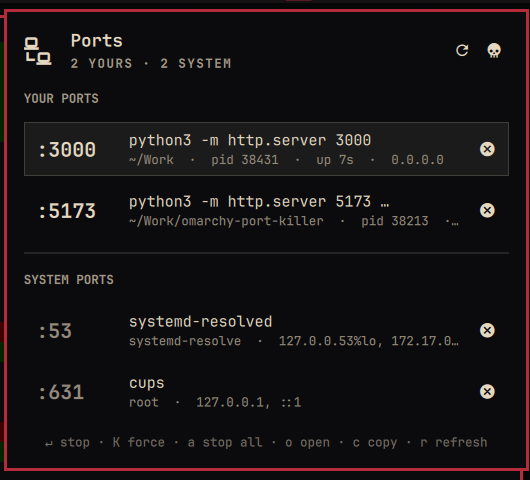
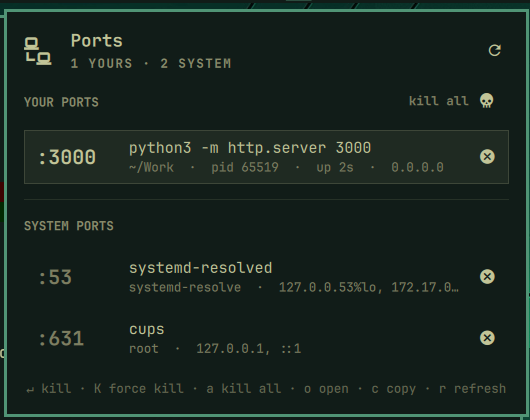
Refine kill actions and menu layout
Move kill all next to the user-owned ports it affects. Use "kill" consistently in the interface and documentation.

diff --git a/Panel.qml b/Panel.qml
@@ -104,9 +104,9 @@ Panel {
     if (!a) return ""
     if (a.all) {
       var n = ownedCount
-      return (a.force ? "Force kill " : "Stop ") + "all " + n + (n === 1 ? " process" : " processes") + " listening on your ports?"
+      return (a.force ? "Force kill " : "Kill ") + "all " + n + (n === 1 ? " process" : " processes") + " listening on your ports?"
     }
-    var verb = a.force ? "Force kill " : "Stop "
+    var verb = a.force ? "Force kill " : "Kill "
     var text = verb + Model.rowLabel(a.row) + " on " + a.row.proto.toUpperCase() + " :" + a.row.port + "?"
     if (!a.row.owned) text += "\nOwned by " + a.row.user + " — you'll be asked for your password."
     return text
@@ -162,7 +162,7 @@ Panel {
     function toggle(): void { root.toggle() }
     function refresh(): string { ports.refresh(); return "ok" }
     function list(): string { return JSON.stringify(ports.rows) }
-    // Scripting hook: stops the process on one of your own TCP ports, no dialog.
+    // Scripting hook: kills the process on one of your own TCP ports, no dialog.
     function kill(port: string): string {
       var row = ports.findOwned(port)
       if (!row) return "not found"
@@ -274,24 +274,12 @@ Panel {
               }
             }
             trailingControl: Component {
-              Row {
-                spacing: Style.space(4)
-                PanelActionButton {
-                  iconText: Model.glyph.refresh
-                  tooltipText: "Refresh  (r)"
-                  foreground: root.foreground
-                  fontFamily: root.fontFamily
-                  onClicked: ports.refresh()
-                }
-                PanelActionButton {
-                  iconText: Model.glyph.killAll
-                  tooltipText: "Stop all your ports  (a)"
-                  foreground: root.foreground
-                  hoverColor: root.urgent
-                  fontFamily: root.fontFamily
-                  enabled: root.ownedCount > 0 && !ports.busy
-                  onClicked: root.askKillAll(false)
-                }
+              PanelActionButton {
+                iconText: Model.glyph.refresh
+                tooltipText: "Refresh  (r)"
+                foreground: root.foreground
+                fontFamily: root.fontFamily
+                onClicked: ports.refresh()
               }
             }
           }
@@ -307,10 +295,56 @@ Panel {
             wrapMode: Text.WordWrap
           }
 
-          PanelSectionHeader {
-            text: "YOUR PORTS"
-            foreground: root.foreground
-            fontFamily: root.fontFamily
+          // Kill all only touches your ports, so it lives on this section's
+          // header, right-aligned with the per-row kill buttons.
+          Item {
+            width: parent.width
+            implicitHeight: Math.max(yourHeader.implicitHeight, killAllRow.visible ? killAllButton.implicitHeight : 0)
+
+            PanelSectionHeader {
+              id: yourHeader
+              anchors.left: parent.left
+              anchors.verticalCenter: parent.verticalCenter
+              text: "YOUR PORTS"
+              foreground: root.foreground
+              fontFamily: root.fontFamily
+            }
+
+            Row {
+              id: killAllRow
+              visible: root.ownedCount > 0
+              anchors.right: parent.right
+              anchors.rightMargin: Style.space(6)
+              anchors.verticalCenter: parent.verticalCenter
+              spacing: Style.space(4)
+              readonly property bool hot: killAllHover.hovered || killAllButton._hot
+
+              Text {
+                id: killAllText
+                textFormat: Text.PlainText
+                anchors.verticalCenter: parent.verticalCenter
+                text: "kill all"
+                color: killAllRow.hot && !ports.busy ? root.urgent : root.dim
+                font.family: root.fontFamily
+                font.pixelSize: Style.font.caption
+                font.bold: true
+
+                HoverHandler { id: killAllHover; cursorShape: Qt.PointingHandCursor }
+                TapHandler { enabled: !ports.busy; onTapped: root.askKillAll(false) }
+              }
+
+              PanelActionButton {
+                id: killAllButton
+                iconText: Model.glyph.killAll
+                tooltipText: "Kill all your ports  (a)"
+                foreground: root.foreground
+                hoverColor: root.urgent
+                hasCursor: killAllHover.hovered
+                fontFamily: root.fontFamily
+                enabled: !ports.busy
+                onClicked: root.askKillAll(false)
+              }
+            }
           }
 
           Text {
@@ -375,7 +409,7 @@ Panel {
           Text {
             textFormat: Text.PlainText
             width: parent.width
-            text: "↵ stop · K force · a stop all · o open · c copy · r refresh"
+            text: "↵ kill · K force kill · a kill all · o open · c copy · r refresh"
             color: root.dim
             opacity: 0.8
             font.family: root.fontFamily
@@ -392,7 +426,7 @@ Panel {
         z: 10
         opened: root.confirmOpen
         message: root.confirmMessage()
-        confirmText: root.confirmAction && root.confirmAction.force ? "Kill" : "Stop"
+        confirmText: root.confirmAction && root.confirmAction.force ? "Force kill" : "Kill"
         fontFamily: root.fontFamily
         onCanceled: root.cancelConfirm()
         onConfirmed: root.confirm()
@@ -468,7 +502,7 @@ Panel {
 
       PanelActionButton {
         iconText: Model.glyph.kill
-        tooltipText: portRow.row && portRow.row.owned ? "Stop  (↵)" : "Stop as root  (↵)"
+        tooltipText: portRow.row && portRow.row.owned ? "Kill  (↵)" : "Kill as root  (↵)"
         foreground: root.foreground
         hoverColor: root.urgent
         fontFamily: root.fontFamily

diff --git a/Service.qml b/Service.qml
@@ -92,7 +92,8 @@ Item {
     var sig = force ? "KILL" : "TERM"
     var command = ["bash", killScript, "port", row.proto, String(row.port), sig]
     if (!row.owned) command = ["pkexec"].concat(command)
-    run(command, (force ? "Force killing " : "Stopping ") + Model.rowLabel(row) + " on :" + row.port + "…")
+    var target = Model.rowLabel(row) + " on :" + row.port
+    run(command, (force ? "Force killing " : "Killing ") + target + "…", (force ? "Force killed " : "Killed ") + target)
   }
 
   function killAllOwned(force) {
@@ -104,14 +105,15 @@ Item {
         if (pids.indexOf(pid) === -1) pids.push(pid)
       }
     }
+    var target = pids.length + (pids.length === 1 ? " process" : " processes")
     run(["bash", killScript, "pids", force ? "KILL" : "TERM"].concat(pids),
-      "Stopping " + pids.length + (pids.length === 1 ? " process…" : " processes…"))
+      (force ? "Force killing " : "Killing ") + target + "…", (force ? "Force killed " : "Killed ") + target)
   }
 
-  function run(command, label) {
+  function run(command, label, doneLabel) {
     _killOutput = ""
     _killError = ""
-    _pendingLabel = label
+    _pendingLabel = doneLabel
     actionStatus = label
     lastError = ""
     killProcess.command = command
@@ -160,7 +162,7 @@ Item {
     onExited: function(exitCode) {
       var stderr = String(killStderr.text || root._killError || "")
       if (exitCode === 0) {
-        root.actionStatus = root._pendingLabel.replace(/^Stopping /, "Stopped ").replace(/^Force killing /, "Killed ").replace(/…$/, "")
+        root.actionStatus = root._pendingLabel
         actionStatusTimer.restart()
       } else {
         root.actionStatus = ""

diff --git a/README.md b/README.md
@@ -1,7 +1,7 @@
 # Port Killer for Omarchy
 
 A bar widget for the [Omarchy](https://omarchy.org) shell that shows what's
-listening on which port, and lets you stop it without leaving the desktop.
+listening on which port, and lets you kill it without leaving the desktop.
 It's for the dev server that didn't shut down properly and is still holding
 `:3000`.
 
@@ -10,11 +10,11 @@ It's for the dev server that didn't shut down properly and is still holding
 - The bar icon shows how many of **your** processes hold a listening port.
 - For each port, the panel shows the command, the **project directory** it
   was started from, the pid, uptime, and bind addresses.
-- **Stop** sends SIGTERM and escalates to SIGKILL if the process hasn't exited
-  after 3 s. **Force** sends SIGKILL right away. **Stop all** clears every port
+- **Kill** sends SIGTERM and escalates to SIGKILL if the process hasn't exited
+  after 3 s. **Force kill** sends SIGKILL right away. **Kill all** clears every port
   you own.
 - **System ports** (owned by root or service users) are labelled with their
-  systemd unit. Stopping one asks for your password through Omarchy's polkit
+  systemd unit. Killing one asks for your password through Omarchy's polkit
   dialog.
 - You can filter which ports are shown and hide processes by name.
   Everything is keyboard-driven like the built-in Omarchy panels.
@@ -43,19 +43,19 @@ URLs. All three ship with Omarchy.
 |---|---|
 | Bar: left click | open the panel |
 | Bar: right click | refresh |
-| Bar: middle click | stop all your ports (asks first) |
+| Bar: middle click | kill all your ports (asks first) |
 | Row: click | open `http://localhost:<port>` |
 | Row: middle click | copy the URL |
-| Row: close button | stop the process (asks first) |
+| Row: kill button | kill the process (asks first) |
 
 Keys while the panel is open:
 
 | Key | Action |
 |---|---|
 | `j` / `k` / arrows | move |
-| `Enter` / `x` | stop the selected process |
+| `Enter` / `x` | kill the selected process |
 | `K` | force kill it with SIGKILL |
-| `a` / `A` | stop / force kill all your ports |
+| `a` / `A` | kill / force kill all your ports |
 | `o` | open in the browser |
 | `c` | copy the URL |
 | `r` | refresh |
@@ -105,7 +105,7 @@ or in Omarchy's settings panel:
   can't signal a reused pid. It then sends TERM, waits up to 3 s, and sends
   KILL. For system ports the same script runs under `pkexec`. PID 1 is never
   signalled: with socket activation, systemd holds the socket too.
-- Stopping a systemd service's process usually just makes systemd restart it.
+- Killing a systemd service's process usually just makes systemd restart it.
   For services, `systemctl stop <unit>` is the right tool.
 
 ## Development
